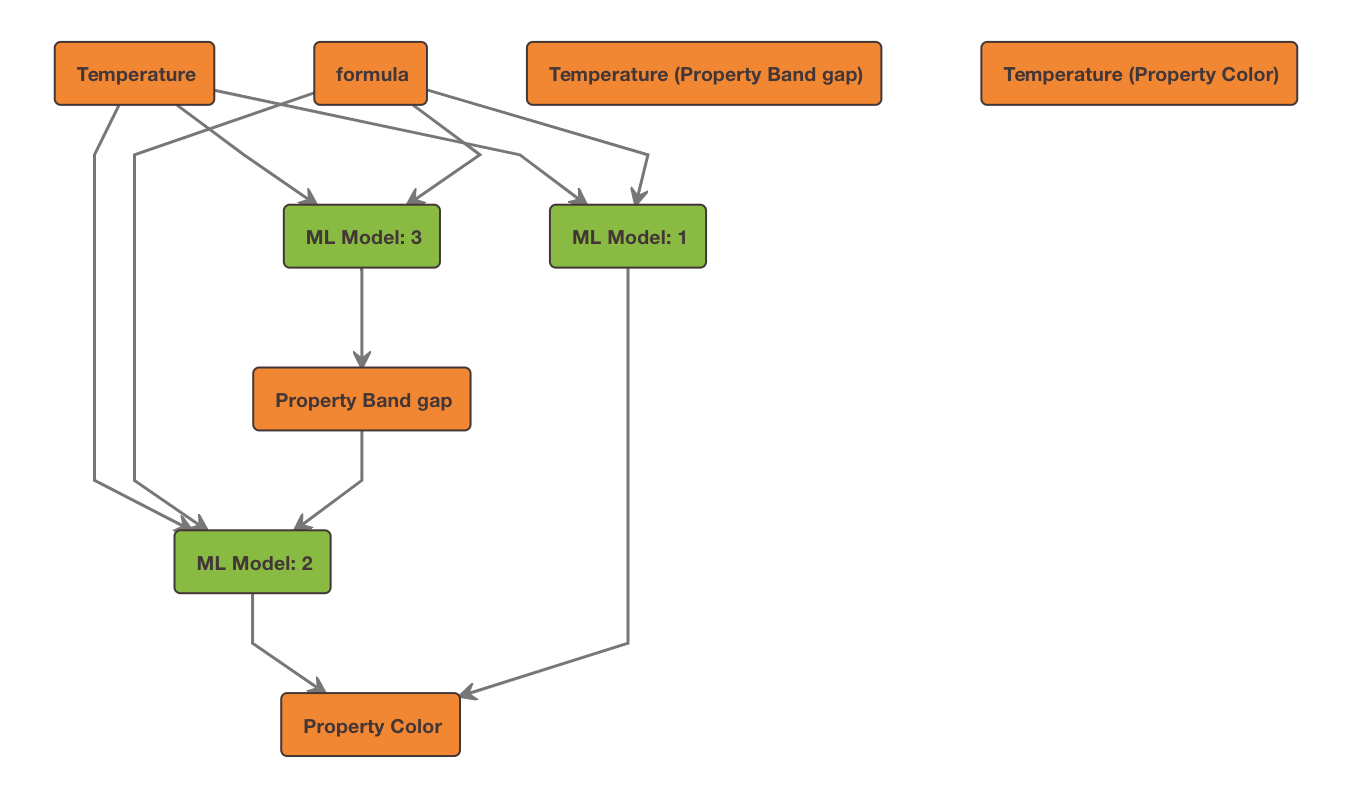
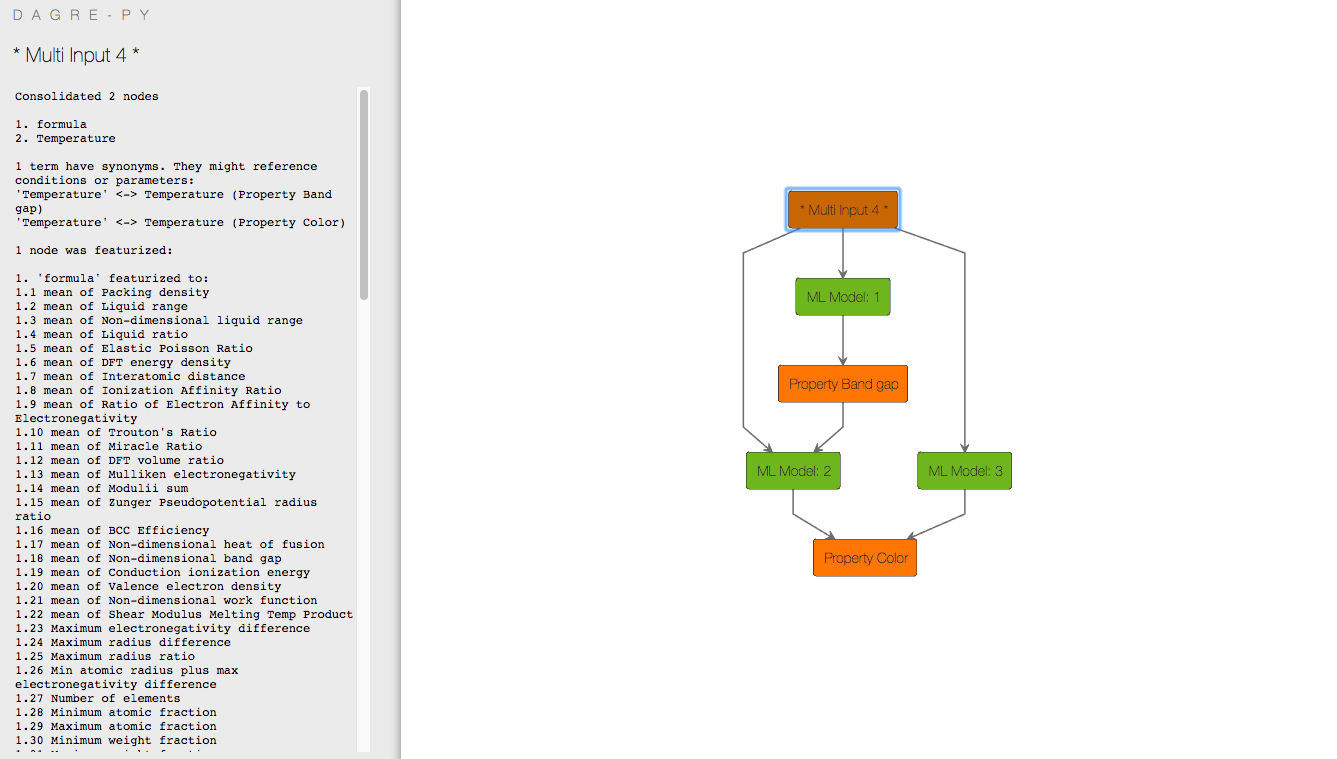
Update relation graphs associated with data view builder docs
Update relation graphs in data view builder documentation section to
  reflect Multi Input node and synonym updates.

diff --git a/docs/source/code_samples/views/data_view_builder_relations.py b/docs/source/code_samples/views/data_view_builder_relations.py
@@ -2,19 +2,19 @@
     {
         'inputs': [
             'formula',
-            'Temperature (Property Band gap)'
+            'Temperature'
         ],
         'output': 'Property Band gap'
     }, {
         'inputs': [
             'formula',
-            'Temperature (Property Color)'
+            'Temperature'
         ],
         'output': 'Property Color'
-    },{
+    }, {
         'inputs': [
             'formula',
-            'Temperature (Property Band gap)',
+            'Temperature',
             'Property Band gap'
         ],
         'output': 'Property Color'

diff --git a/docs/source/code_samples/views/advanced_data_view_builder_2.py b/docs/source/code_samples/views/advanced_data_view_builder_2.py
@@ -5,6 +5,6 @@ for descriptor in descriptors:
     advanced_builder.add_raw_descriptor(descriptor)
 
 advanced_builder.add_relation(['formula'], 'Property Band gap')
-advanced_builder.add_relation(['formula'], 'Property Color')
+advanced_builder.add_relation(['formula', 'Temperature (Property Color)'], 'Property Color')
 advanced_builder.add_relation(['formula', 'Temperature (Property Band gap)'], 'Property Band gap')
 advanced_builder.add_relation(['formula', 'Property Band gap'], 'Property Color')

diff --git a/docs/source/code_samples/views/advanced_data_view_builder_relations.py b/docs/source/code_samples/views/advanced_data_view_builder_relations.py
@@ -6,7 +6,7 @@
         'inputs': ['formula', 'Temperature (Property Band gap)'],
         'output': 'Property Band gap'
     }, {
-        'inputs': ['formula'],
+        'inputs': ['formula', 'Temperature (Property Color)'],
         'output': 'Property Color'
     },{
         'inputs': ['formula', 'Property Band gap'],

diff --git a/docs/source/tutorial/view_examples.rst b/docs/source/tutorial/view_examples.rst
@@ -82,6 +82,12 @@ The following relation graph was generated from the sample code above:
   :width: 600
   :alt: Relation graph visualization using dagre_py
 
+Note that models with multiple input nodes are consolidated into a single
+``Multi Input`` node, which in this case represents both ``formula`` and
+``Temperature``. Additionally, ``Temperature (Property Band gap)`` and
+``Temperature (Property Color)`` are treated as synonyms by Citrination, and are
+referred to as ``Temperature`` in the graph above.
+
 Using the AdvancedDataViewBuilder
 ^^^^^^^^^^^^^^^^^^^^^^^^^^^^^^^^^
 
@@ -94,6 +100,10 @@ For the data view generated in the ``DataViewBuilder`` example above, specifying
 resulted in 3 models being generated, represented by the following relations:
 
 .. literalinclude:: /code_samples/views/data_view_builder_relations.py
+
+Note that ``Temperature (Property Band gap)`` and ``Temperature (Property Color)`` are
+treated as synonyms by Citrination, and are referred to as ``Temperature`` in the
+above relations.
 
 The ``AdvancedDataViewBuilder`` gives you the freedom to specify the ``relations``
 between all of your descriptors. Building on the ``DataViewBuilder`` example,
@@ -129,6 +139,10 @@ generated.
 .. image:: /code_samples/views/advanced_data_view_builder_relation_graph.png
   :width: 600
   :alt: Relation graph visualization using dagre_py
+
+Note that ``Temperature (Property Band gap)`` and ``Temperature (Property Color)``
+are treated as synonyms by Citrination, and are referred to as ``Temperature`` in
+the graph above.
 
 Retrieving Model Reports
 ------------------------
